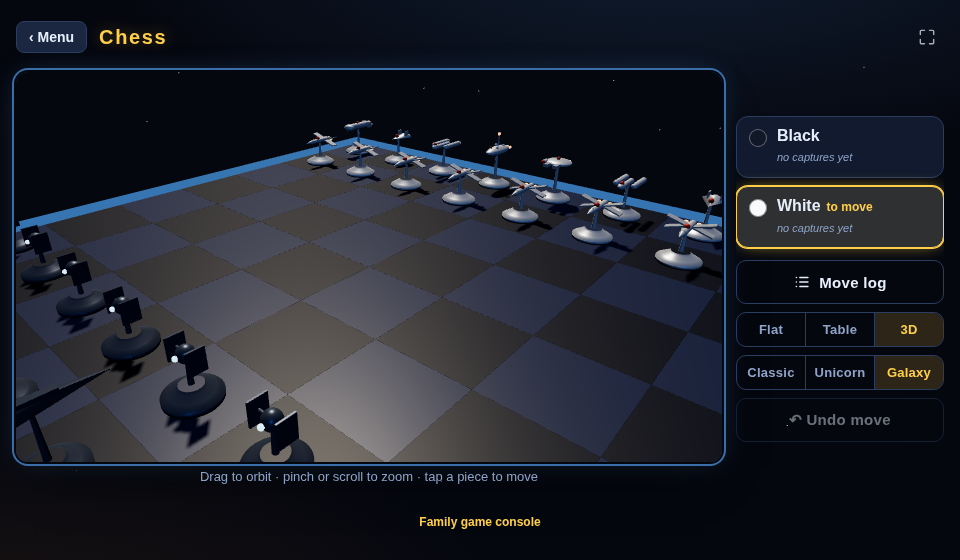
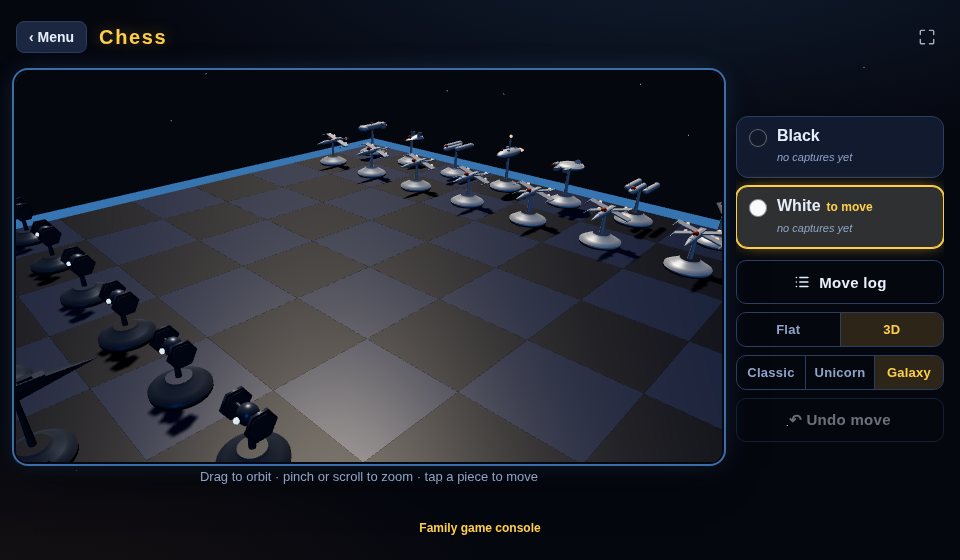
Chess: the Galaxy Fleet gets real — hex TIE wings, four-foil X-wings
A realism pass over the 3D starship sculpts, by family request:

- TIE fighter & interceptor: the flat box panels are now proper
  HEXAGONAL wings — a hull-colour frame around a darker solar-cell
  inset — with the interceptor's stretched and raked at the enemy.
- X-wing: boxy engine block behind the cockpit, a longer nose, a laser
  cannon at each of the four wingtips, and four engines — one glowing
  at each S-foil root.
- The freighter queen: a docking-ring band around the hull, and the
  offset sensor dish on a stalk, tilted up off the port side.
- Star Destroyer: a second, raised city-deck wedge stacked on the
  hull under the bridge tower.
- Executor: a darker superstructure spine with city blocks marching
  toward the bridge.
- The battle station: darker equatorial trench, a properly concave
  dish with a rim and pale focusing lens, and seven seeded darker
  hull plates scattered across the sphere (deterministic, so every
  build looks identical).

All still procedural geometry — no downloaded models, PWA stays
offline.

Claude-Session: https://claude.ai/code/session_01Pet5917XAbMAsbQM47tWg6

diff --git a/src/games/chess/components/three/ChessScene.ts b/src/games/chess/components/three/ChessScene.ts
@@ -810,21 +810,31 @@ function buildRebelShip(
 ) {
   const { zcone, zcyl, engine, detail, wedge } = kit;
   switch (type) {
-    case 'p': { // X-wing — long fuselage, four S-foils open in an X
-      zcyl(0.032, 0.34, mat, 0, 0, f * -0.02);
-      const nose = zcone(0.032, 0.12, mat);
-      nose.position.z = f * 0.2;
-      detail(0, 0.035, 0.04, 0.028); // canopy stripe
+    case 'p': { // X-wing — long fuselage, four S-foils, wingtip cannons
+      zcyl(0.03, 0.3, mat, 0, 0, f * 0.02);
+      const nose = zcone(0.028, 0.16, mat);
+      nose.position.z = f * 0.24;
+      const tail = new THREE.Mesh(new THREE.BoxGeometry(0.052, 0.048, 0.14), mat);
+      tail.position.set(0, 0.002, -f * 0.1);
+      ship.add(tail); // the boxy engine block behind the cockpit
+      detail(0, 0.038, 0.06, 0.026); // canopy stripe in rebel red
       for (const sx of [-1, 1]) {
         for (const sy of [-1, 1]) {
-          const foil = new THREE.Mesh(new THREE.BoxGeometry(0.2, 0.013, 0.085), mat);
-          foil.position.set(sx * 0.11, sy * 0.028, -f * 0.1);
-          foil.rotation.z = sx * sy * 0.3; // the open X
+          const foil = new THREE.Mesh(new THREE.BoxGeometry(0.2, 0.012, 0.085), mat);
+          foil.position.set(sx * 0.11, sy * 0.03, -f * 0.09);
+          foil.rotation.z = sx * sy * 0.28; // the open X
           ship.add(foil);
+          // Wingtip laser cannon, poking ahead of each foil.
+          const cannon = new THREE.Mesh(new THREE.CylinderGeometry(0.004, 0.004, 0.16, 6), mat);
+          cannon.rotation.x = Math.PI / 2;
+          cannon.position.set(sx * 0.09, 0.004, f * 0.06);
+          foil.add(cannon);
+          // One engine per foil root — four in all, like the real thing.
+          const eng = new THREE.Mesh(new THREE.SphereGeometry(0.017, 12, 10), glow);
+          eng.position.set(sx * 0.02, 0, -f * 0.055);
+          foil.add(eng);
         }
       }
-      engine(-0.055, 0.17, 0.024);
-      engine(0.055, 0.17, 0.024);
       break;
     }
     case 'n': { // A-wing — a darting little delta with twin tail fins
@@ -865,22 +875,32 @@ function buildRebelShip(
       engine(0, 0.235, 0.022, -0.025);
       break;
     }
-    case 'q': { // the saucer freighter — disc, mandibles, offset cockpit
+    case 'q': { // the saucer freighter — disc, mandibles, dish, offset cockpit
       const disc = new THREE.Mesh(new THREE.SphereGeometry(0.155, 24, 16), mat);
       disc.scale.set(1, 0.28, 1);
       ship.add(disc);
+      const rim = new THREE.Mesh(new THREE.TorusGeometry(0.148, 0.014, 10, 32), mat);
+      rim.rotation.x = Math.PI / 2;
+      ship.add(rim); // the docking-ring band around the hull's equator
       for (const sx of [-1, 1]) {
-        const mand = new THREE.Mesh(new THREE.BoxGeometry(0.05, 0.035, 0.13), mat);
-        mand.position.set(sx * 0.055, 0, f * 0.17);
+        const mand = new THREE.Mesh(new THREE.BoxGeometry(0.048, 0.034, 0.14), mat);
+        mand.position.set(sx * 0.056, 0, f * 0.175);
         ship.add(mand);
       }
-      const cockpit = zcyl(0.026, 0.09, mat, 0.125, 0.01, f * 0.1);
+      const cockpit = zcyl(0.026, 0.1, mat, 0.125, 0.012, f * 0.1);
       cockpit.rotation.x = Math.PI / 2;
-      detail(0.125, 0.012, 0.15, 0.024); // cockpit glass
-      const band = new THREE.Mesh(new THREE.BoxGeometry(0.16, 0.02, 0.014), glow);
-      band.position.set(0, 0, -f * 0.15);
+      detail(0.125, 0.014, 0.155, 0.022); // cockpit glass
+      // The rectangular sensor dish, tilted up off the port side.
+      const dish = new THREE.Mesh(new THREE.CylinderGeometry(0.034, 0.026, 0.008, 16), mat);
+      dish.position.set(-0.07, 0.05, -f * 0.03);
+      dish.rotation.set(f * 0.9, 0, 0.35);
+      ship.add(dish);
+      const stalk = new THREE.Mesh(new THREE.CylinderGeometry(0.005, 0.005, 0.035, 6), mat);
+      stalk.position.set(-0.07, 0.032, -f * 0.03);
+      ship.add(stalk);
+      const band = new THREE.Mesh(new THREE.BoxGeometry(0.17, 0.018, 0.012), glow);
+      band.position.set(0, 0, -f * 0.152);
       ship.add(band); // the long blue-white engine strip
-      detail(0, 0.05, 0.02, 0.022); // top dish
       break;
     }
     case 'k': { // Mon Cal flagship — whale-backed cruiser, bristling with domes
@@ -915,6 +935,9 @@ function buildEmpireShip(
   kit: ShipKit,
 ) {
   const { engine, detail, wedge } = kit;
+  const bodyColor = (mat as THREE.MeshStandardMaterial).color;
+  /** Darker imperial plating — solar panels, trenches, hull plates. */
+  const plateMat = new THREE.MeshStandardMaterial({ color: bodyColor.clone().multiplyScalar(0.55), roughness: 0.7 });
   /** The TIE ball cockpit with its round viewport. */
   const ball = (r: number) => {
     const b = new THREE.Mesh(new THREE.SphereGeometry(r, 18, 14), mat);
@@ -923,30 +946,41 @@ function buildEmpireShip(
     eye.scale.z = 0.5;
     return b;
   };
-  /** A TIE wing panel; `rake` angles interceptor daggers forward. */
-  const panel = (x: number, wHeight: number, wDepth: number, rake = 0) => {
-    const p = new THREE.Mesh(new THREE.BoxGeometry(0.014, wHeight, wDepth), mat);
-    p.position.set(x, 0, 0);
-    p.rotation.y = -Math.sign(x) * f * rake;
-    ship.add(p);
-    const strut = new THREE.Mesh(new THREE.CylinderGeometry(0.012, 0.012, Math.abs(x), 8), mat);
+  /**
+   * A proper TIE wing: a hexagonal frame with a darker solar panel inset,
+   * joined to the ball by a strut. `rake` angles interceptor daggers toward
+   * the enemy; `stretch` elongates the hex vertically.
+   */
+  const hexWing = (x: number, r: number, rake = 0, stretch = 1) => {
+    const wing = new THREE.Group();
+    const frame = new THREE.Mesh(new THREE.CylinderGeometry(r, r, 0.016, 6), mat);
+    frame.rotation.z = Math.PI / 2; // hex face out along x
+    wing.add(frame);
+    const cells = new THREE.Mesh(new THREE.CylinderGeometry(r * 0.78, r * 0.78, 0.02, 6), plateMat);
+    cells.rotation.z = Math.PI / 2;
+    wing.add(cells);
+    wing.position.x = x;
+    wing.scale.y = stretch;
+    wing.rotation.y = -Math.sign(x) * f * rake;
+    ship.add(wing);
+    const strut = new THREE.Mesh(new THREE.CylinderGeometry(0.011, 0.011, Math.abs(x), 8), mat);
     strut.rotation.z = Math.PI / 2;
     strut.position.set(x / 2, 0, 0);
     ship.add(strut);
   };
   switch (type) {
-    case 'p': // TIE fighter — ball cockpit between two flat panels
-      ball(0.062);
-      panel(-0.115, 0.17, 0.13);
-      panel(0.115, 0.17, 0.13);
-      engine(0, 0.07, 0.02);
+    case 'p': // TIE fighter — ball cockpit between two hex solar wings
+      ball(0.06);
+      hexWing(-0.115, 0.095);
+      hexWing(0.115, 0.095);
+      engine(0, 0.068, 0.018);
       break;
-    case 'n': // TIE interceptor — the daggers rake toward the enemy
-      ball(0.058);
-      panel(-0.12, 0.2, 0.15, 0.5);
-      panel(0.12, 0.2, 0.15, 0.5);
-      engine(-0.03, 0.07, 0.018);
-      engine(0.03, 0.07, 0.018);
+    case 'n': // TIE interceptor — stretched daggers raked at the enemy
+      ball(0.056);
+      hexWing(-0.115, 0.085, 0.5, 1.35);
+      hexWing(0.115, 0.085, 0.5, 1.35);
+      engine(-0.028, 0.066, 0.016);
+      engine(0.028, 0.066, 0.016);
       break;
     case 'b': { // the trifoil shuttle — tall dorsal fin, drooped wings
       const body = kit.zcone(0.06, 0.3, mat);
@@ -965,53 +999,77 @@ function buildEmpireShip(
       engine(0, 0.13, 0.032);
       break;
     }
-    case 'r': { // Star Destroyer — the wedge, neck, and twin-domed bridge
+    case 'r': { // Star Destroyer — tiered wedge hull, neck, twin-domed bridge
       wedge(0.15, 0.55, 1.4, 0.45);
+      const tier = wedge(0.095, 0.36, 1.3, 0.5); // the raised city deck
+      tier.position.set(0, 0.03, -f * 0.07);
       const neck = new THREE.Mesh(new THREE.BoxGeometry(0.05, 0.045, 0.06), mat);
-      neck.position.set(0, 0.045, -f * 0.16);
+      neck.position.set(0, 0.055, -f * 0.17);
       ship.add(neck);
       const bridge = new THREE.Mesh(new THREE.BoxGeometry(0.13, 0.028, 0.045), mat);
-      bridge.position.set(0, 0.082, -f * 0.16);
+      bridge.position.set(0, 0.092, -f * 0.17);
       ship.add(bridge);
-      detail(-0.04, 0.105, -0.16, 0.013); // deflector domes, atop the bridge
-      detail(0.04, 0.105, -0.16, 0.013);
+      detail(-0.04, 0.115, -0.17, 0.013); // deflector domes, atop the bridge
+      detail(0.04, 0.115, -0.17, 0.013);
       engine(-0.06, 0.29, 0.024);
       engine(0, 0.29, 0.028);
       engine(0.06, 0.29, 0.024);
       break;
     }
-    case 'q': { // the Executor — a longer, crueller blade
+    case 'q': { // the Executor — a long blade with a superstructure city
       wedge(0.13, 0.82, 1.5, 0.32);
-      const ridge = new THREE.Mesh(new THREE.BoxGeometry(0.05, 0.03, 0.4), mat);
-      ridge.position.set(0, 0.028, -f * 0.06);
+      const ridge = new THREE.Mesh(new THREE.BoxGeometry(0.05, 0.026, 0.42), plateMat);
+      ridge.position.set(0, 0.026, -f * 0.06);
       ship.add(ridge);
+      // Blocks of city marching down the spine toward the bridge.
+      for (const [bz, bw] of [[0.06, 0.036], [-0.06, 0.03], [-0.17, 0.024]] as const) {
+        const block = new THREE.Mesh(new THREE.BoxGeometry(bw, 0.016, 0.07), mat);
+        block.position.set(0, 0.046, f * bz);
+        ship.add(block);
+      }
       const bridge = new THREE.Mesh(new THREE.BoxGeometry(0.09, 0.024, 0.035), mat);
-      bridge.position.set(0, 0.062, -f * 0.28);
+      bridge.position.set(0, 0.068, -f * 0.28);
       ship.add(bridge);
-      detail(0, 0.085, -0.28, 0.012);
+      detail(0, 0.09, -0.28, 0.012);
       engine(-0.05, 0.42, 0.02);
       engine(0, 0.42, 0.024);
       engine(0.05, 0.42, 0.02);
       break;
     }
-    case 'k': { // the battle station — sphere, equatorial trench, the dish
+    case 'k': { // the battle station — sphere, trench, dish, hull plates
       const core = new THREE.Mesh(new THREE.SphereGeometry(0.17, 28, 22), mat);
       ship.add(core);
-      const bodyColor = (mat as THREE.MeshStandardMaterial).color;
-      const trenchMat = new THREE.MeshStandardMaterial({ color: bodyColor.clone().multiplyScalar(0.55), roughness: 0.7 });
-      const trench = new THREE.Mesh(new THREE.TorusGeometry(0.169, 0.012, 8, 40), trenchMat);
+      const trench = new THREE.Mesh(new THREE.TorusGeometry(0.169, 0.012, 8, 40), plateMat);
       trench.rotation.x = Math.PI / 2;
       ship.add(trench);
-      // The superlaser dish, up-and-forward where everyone expects it.
-      const dish = new THREE.Mesh(new THREE.SphereGeometry(0.062, 16, 12), trenchMat);
-      dish.scale.set(1, 1, 0.35);
+      // The superlaser dish, up-and-forward where everyone expects it —
+      // a concave darker bowl with a rim and a pale green focusing lens.
       const dishDir = new THREE.Vector3(0.35, 0.55, f * 0.75).normalize();
-      dish.position.copy(dishDir.clone().multiplyScalar(0.155));
+      const dish = new THREE.Mesh(new THREE.SphereGeometry(0.06, 16, 12), plateMat);
+      dish.scale.set(1, 1, 0.3);
+      dish.position.copy(dishDir.clone().multiplyScalar(0.152));
       dish.lookAt(dishDir.clone().multiplyScalar(2));
       ship.add(dish);
-      const lens = new THREE.Mesh(new THREE.SphereGeometry(0.02, 12, 10), glow);
-      lens.position.copy(dishDir.clone().multiplyScalar(0.165));
+      const rim = new THREE.Mesh(new THREE.TorusGeometry(0.056, 0.006, 8, 24), mat);
+      rim.position.copy(dishDir.clone().multiplyScalar(0.163));
+      rim.lookAt(dishDir.clone().multiplyScalar(2));
+      ship.add(rim);
+      const lens = new THREE.Mesh(new THREE.SphereGeometry(0.016, 12, 10), glow);
+      lens.position.copy(dishDir.clone().multiplyScalar(0.158));
       ship.add(lens);
+      // Scattered darker hull plates (seeded, so every build looks the same).
+      let seed = 11;
+      const rand = () => ((seed = (seed * 1103515245 + 12345) & 0x7fffffff) / 0x7fffffff);
+      for (let i = 0; i < 7; i++) {
+        const az = rand() * Math.PI * 2;
+        const el = (rand() - 0.35) * 1.6;
+        const dir = new THREE.Vector3(Math.cos(el) * Math.cos(az), Math.sin(el), Math.cos(el) * Math.sin(az));
+        if (dir.angleTo(dishDir) < 0.55) continue; // keep the dish's face clean
+        const plate = new THREE.Mesh(new THREE.CircleGeometry(0.018 + rand() * 0.02, 10), plateMat);
+        plate.position.copy(dir.clone().multiplyScalar(0.1705));
+        plate.lookAt(dir.clone().multiplyScalar(2));
+        ship.add(plate);
+      }
       break;
     }
   }
